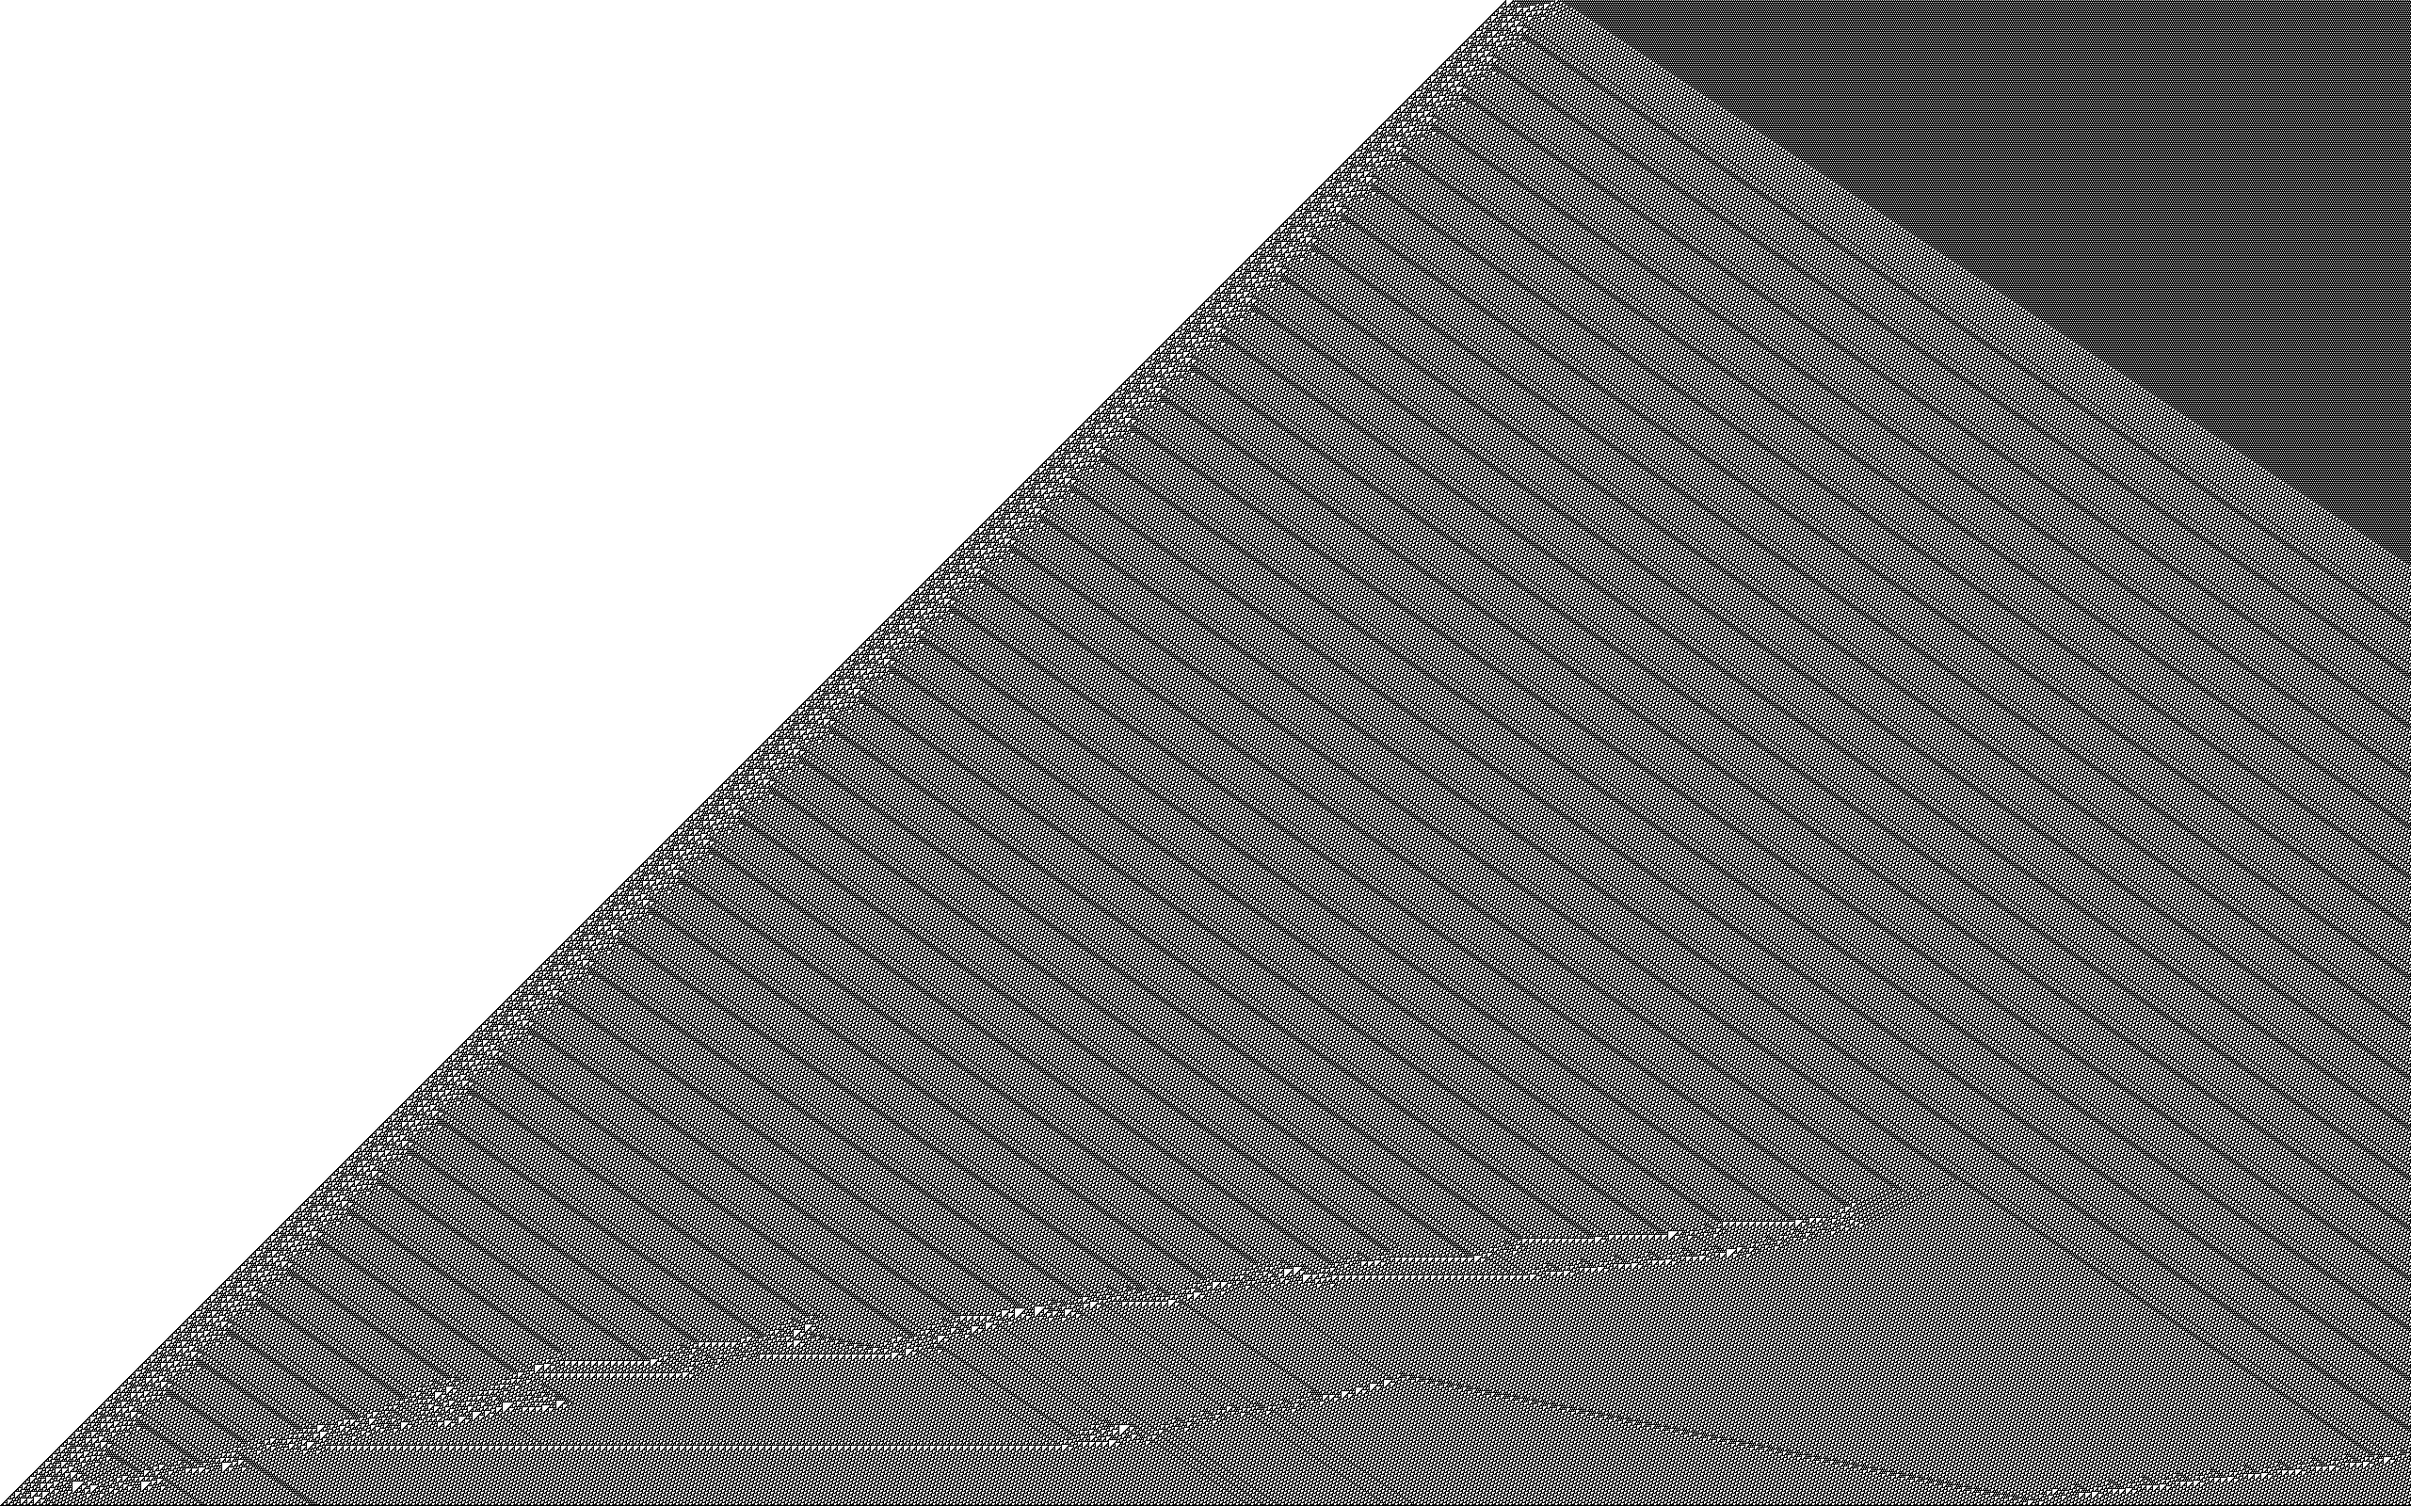
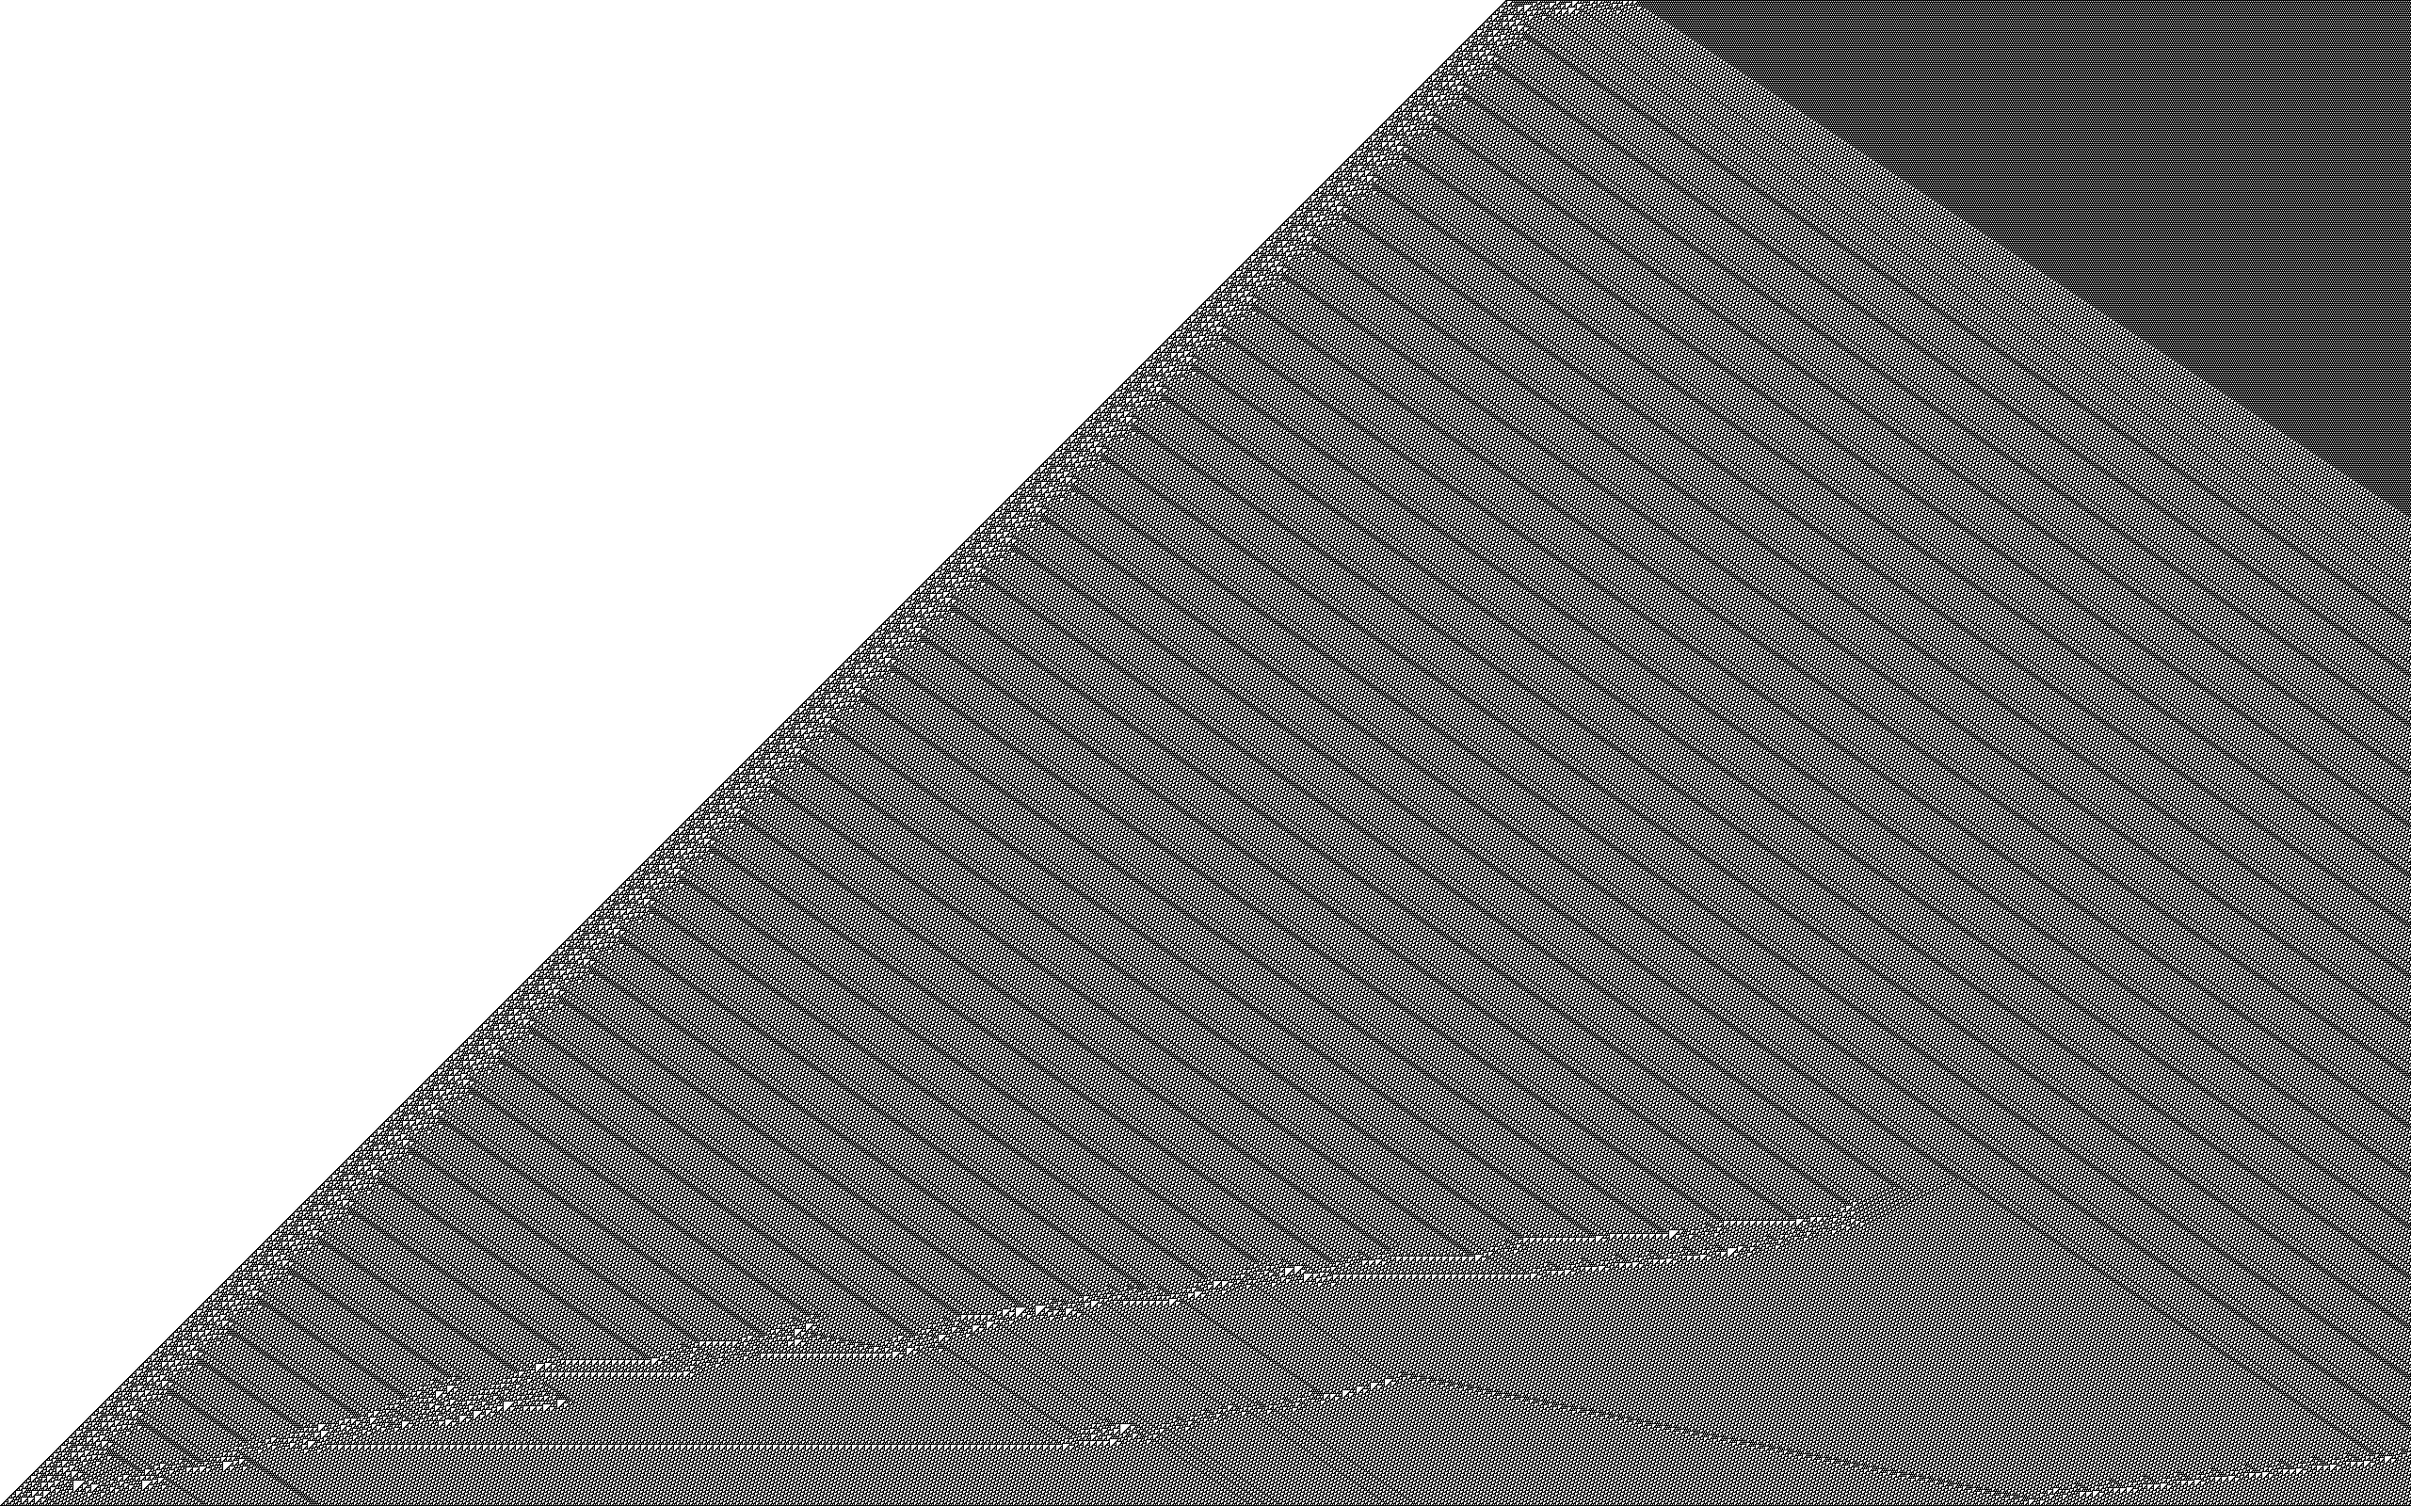
update: default automata generation add: README update: render new example pic

diff --git a/src/cellular_automata.rs b/src/cellular_automata.rs
@@ -1,0 +1,281 @@
+use crate::utils::{get_left_neighbour_index_wrapping, get_right_neighbour_index_wrapping};
+use bit_set::BitSet;
+use image::{ImageBuffer, Rgb, RgbImage};
+use std::fmt::{Display, Error, Formatter};
+
+pub enum RowStartPosition {
+    Left,
+    Right,
+    Center,
+}
+
+pub enum BorderHandling {
+    Alive,
+    Dead,
+    Wrapping,
+}
+
+pub struct Generation {
+    cells: Vec<bool>,
+}
+
+impl Display for Generation {
+    fn fmt(&self, f: &mut Formatter) -> Result<(), Error> {
+        let generation_as_string: String = self
+            .cells
+            .iter()
+            .map(|cell_state| if *cell_state { '■' } else { '□' })
+            .collect();
+        write!(f, "{}", generation_as_string)
+    }
+}
+
+impl Generation {
+    pub fn new(width: usize, start_position: RowStartPosition) -> Self {
+        assert!(
+            width > 0,
+            "You can't create 0 width rows, please create something of width 1 or larger."
+        );
+
+        let start_point = match start_position {
+            RowStartPosition::Left => 0,
+            RowStartPosition::Right => width - 1,
+            RowStartPosition::Center => width / 2,
+        };
+
+        Generation {
+            cells: (0..width)
+                .map(|index: usize| index == start_point)
+                .collect(),
+        }
+    }
+
+    pub fn get_cell_state(&self, cell_index: usize) -> Option<bool> {
+        if cell_index + 1 >= self.cells.len() {
+            return None;
+        }
+
+        Some(self.cells[cell_index])
+    }
+
+    pub fn get_next_generation(&self, rules: u8, border_handling: &BorderHandling) -> Self {
+        Generation {
+            cells: self
+                .cells
+                .iter()
+                .enumerate()
+                .map(|(index, _)| self.get_next_cell_state(index, rules, border_handling))
+                .collect(),
+        }
+    }
+
+    fn get_next_cell_state(
+        &self,
+        cell_index: usize,
+        rules: u8,
+        border_handling: &BorderHandling,
+    ) -> bool {
+        use BorderHandling::*;
+
+        let (left_neighbour, current_state, right_neighbour) = match border_handling {
+            Wrapping => self.get_cell_and_neighbours_wrapping(cell_index),
+            Alive => self.get_cell_and_neighbours(cell_index, true),
+            Dead => self.get_cell_and_neighbours(cell_index, false),
+        };
+
+        get_next_cell_state(left_neighbour, current_state, right_neighbour, rules)
+    }
+
+    fn get_cell_and_neighbours_wrapping(&self, cell_index: usize) -> (bool, bool, bool) {
+        let left_neighbour_index: usize =
+            get_left_neighbour_index_wrapping(cell_index, self.cells.len());
+        let right_neighbour_index: usize =
+            get_right_neighbour_index_wrapping(cell_index, self.cells.len());
+
+        (
+            self.cells[left_neighbour_index],
+            self.cells[cell_index],
+            self.cells[right_neighbour_index],
+        )
+    }
+
+    fn get_cell_and_neighbours(
+        &self,
+        cell_index: usize,
+        neighbour_default: bool,
+    ) -> (bool, bool, bool) {
+        let left_neighbour_index: isize = cell_index as isize - 1;
+        let left_neighbour;
+
+        if left_neighbour_index < 0 {
+            left_neighbour = neighbour_default;
+        } else {
+            left_neighbour = self.cells[left_neighbour_index as usize];
+        }
+
+        let right_neighbour_index: usize = cell_index + 1;
+        let right_neighbour;
+
+        if right_neighbour_index >= self.cells.len() {
+            right_neighbour = neighbour_default;
+        } else {
+            right_neighbour = self.cells[right_neighbour_index as usize];
+        }
+
+        (left_neighbour, self.cells[cell_index], right_neighbour)
+    }
+}
+
+pub struct ElementaryCellularAutomata {
+    generations: Vec<Generation>,
+    width: usize,
+    rule: u8,
+    border_handling: BorderHandling,
+}
+
+impl Display for ElementaryCellularAutomata {
+    fn fmt(&self, f: &mut Formatter) -> Result<(), Error> {
+        let generations: Vec<String> = self
+            .generations
+            .iter()
+            .map(|generation| generation.to_string())
+            .collect();
+
+        let generations_as_string = generations.join("\n");
+        write!(f, "{}", generations_as_string)
+    }
+}
+
+impl Default for ElementaryCellularAutomata {
+    fn default() -> Self {
+        ElementaryCellularAutomata {
+            generations: vec![Generation::new(100, RowStartPosition::Center)],
+            width: 100,
+            rule: 110,
+            border_handling: BorderHandling::Dead,
+        }
+    }
+}
+
+impl ElementaryCellularAutomata {
+    pub fn new(
+        rule: u8,
+        width: usize,
+        start_position: RowStartPosition,
+        border_handling: BorderHandling,
+    ) -> Self {
+        assert!(width > 0, "Width must be greater than zero");
+
+        ElementaryCellularAutomata {
+            generations: vec![Generation::new(width, start_position)],
+            width,
+            rule,
+            border_handling,
+        }
+    }
+
+    pub fn update(&mut self) {
+        let next_generation = self
+            .get_next_generation()
+            .expect("Failed to generate the next generation.");
+
+        self.generations.push(next_generation);
+    }
+
+    pub fn as_image_buffer(&self) -> RgbImage {
+        ImageBuffer::from_fn(
+            self.width as u32,
+            self.generations.len() as u32,
+            |x, y| match self.generations[y as usize].get_cell_state(x as usize) {
+                Some(false) => Rgb([255u8, 255u8, 255u8]),
+                _ => Rgb([0u8, 0u8, 0u8]),
+            },
+        )
+    }
+
+    fn get_next_generation(&self) -> Option<Generation> {
+        if let Some(current_generation) = self.generations.last() {
+            return Some(current_generation.get_next_generation(self.rule, &self.border_handling));
+        }
+
+        None
+    }
+}
+
+fn get_next_cell_state(
+    left_neighbour: bool,
+    current_state: bool,
+    right_neighbour: bool,
+    rules: u8,
+) -> bool {
+    let rules_bitset = BitSet::from_bytes(&[rules]);
+
+    match (left_neighbour, current_state, right_neighbour) {
+        (true, true, true) => rules_bitset.contains(0),
+        (true, true, false) => rules_bitset.contains(1),
+        (true, false, true) => rules_bitset.contains(2),
+        (true, false, false) => rules_bitset.contains(3),
+        (false, true, true) => rules_bitset.contains(4),
+        (false, true, false) => rules_bitset.contains(5),
+        (false, false, true) => rules_bitset.contains(6),
+        (false, false, false) => rules_bitset.contains(7),
+    }
+}
+
+#[cfg(test)]
+mod tests {
+    use super::*;
+
+    fn get_next_cell_state_rule_30(
+        left_neighbour: bool,
+        current_state: bool,
+        right_neighbour: bool,
+    ) -> bool {
+        match (left_neighbour, current_state, right_neighbour) {
+            (true, true, true) => false,
+            (true, true, false) => false,
+            (true, false, true) => false,
+            (true, false, false) => true,
+            (false, true, true) => true,
+            (false, true, false) => true,
+            (false, false, true) => true,
+            (false, false, false) => false,
+        }
+    }
+
+    #[test]
+    fn test_get_next_cell_state() {
+        assert_eq!(
+            get_next_cell_state(true, true, true, 30),
+            get_next_cell_state_rule_30(true, true, true)
+        );
+        assert_eq!(
+            get_next_cell_state(true, true, false, 30),
+            get_next_cell_state_rule_30(true, true, false)
+        );
+        assert_eq!(
+            get_next_cell_state(true, false, true, 30),
+            get_next_cell_state_rule_30(true, false, true)
+        );
+        assert_eq!(
+            get_next_cell_state(true, false, false, 30),
+            get_next_cell_state_rule_30(true, false, false)
+        );
+        assert_eq!(
+            get_next_cell_state(false, true, true, 30),
+            get_next_cell_state_rule_30(false, true, true)
+        );
+        assert_eq!(
+            get_next_cell_state(true, true, false, 30),
+            get_next_cell_state_rule_30(true, true, false)
+        );
+        assert_eq!(
+            get_next_cell_state(false, false, true, 30),
+            get_next_cell_state_rule_30(false, false, true)
+        );
+        assert_eq!(
+            get_next_cell_state(false, false, false, 30),
+            get_next_cell_state_rule_30(false, false, false)
+        );
+    }
+}

diff --git a/src/utils.rs b/src/utils.rs
@@ -1,0 +1,75 @@
+//use std::ops::Mul;
+//use std::ops::Add;
+
+pub fn map_t_of_range_a_to_range_b(
+    t: f32,
+    range_a_start: f32,
+    range_a_end: f32,
+    range_b_start: f32,
+    range_b_end: f32,
+) -> f32 {
+    let slope = (range_b_end - range_b_start) / (range_a_end - range_a_start);
+    range_b_start + slope * (t - range_a_start)
+}
+
+pub trait Interpolate {
+    fn interpolate(&self, other: &Self, t: f32) -> Self;
+}
+
+// This can be used once specialization is stable
+//impl<T: Mul<f32, Output = T> + Add<Output = T> + Copy> Interpolate for T {
+//    fn interpolate(&self, other: &Self, t: f32) -> Self {
+//        *self * (1.0 - t) + *other * t
+//    }
+//}
+
+impl Interpolate for u8 {
+    fn interpolate(&self, other: &Self, t: f32) -> u8 {
+        (f32::from(*self) * (1.0 - t) + f32::from(*other) * t) as u8
+    }
+}
+
+pub fn get_right_neighbour_index_wrapping(current_index: usize, collection_size: usize) -> usize {
+    get_index_wrapping(
+        current_index as isize + 1 as isize,
+        collection_size as isize,
+    ) as usize
+}
+
+pub fn get_left_neighbour_index_wrapping(current_index: usize, collection_size: usize) -> usize {
+    get_index_wrapping(current_index as isize - 1, collection_size as isize) as usize
+}
+
+pub fn get_index_wrapping(index: isize, upper_bound: isize) -> isize {
+    if index >= 0 {
+        index % upper_bound
+    } else {
+        (index % upper_bound + upper_bound) % upper_bound
+    }
+}
+
+#[cfg(test)]
+mod tests {
+    use super::*;
+
+    #[test]
+    fn test_get_index_wrapping() {
+        assert_eq!(0, get_index_wrapping(0, 10));
+        assert_eq!(0, get_index_wrapping(10, 10));
+        assert_eq!(5, get_index_wrapping(5, 10));
+        assert_eq!(9, get_index_wrapping(19, 10));
+        assert_eq!(0, get_index_wrapping(-10, 10));
+    }
+
+    #[test]
+    fn test_get_right_neighbour_index_wrapping() {
+        assert_eq!(1, get_right_neighbour_index_wrapping(0, 4));
+        assert_eq!(0, get_right_neighbour_index_wrapping(3, 4));
+    }
+
+    #[test]
+    fn test_get_left_neighbour_index_wrapping() {
+        assert_eq!(2, get_left_neighbour_index_wrapping(3, 4));
+        assert_eq!(3, get_left_neighbour_index_wrapping(0, 4));
+    }
+}

diff --git a/README.md b/README.md
@@ -1,0 +1,10 @@
+# Cellular Automata
+
+This is a companion project that I'm working on as I read through Stephen Wolfram's "A New Kind of Science".
+
+It contains Rust implementations of various cellular automata described in the book.
+
+By default, the images are rotated left and displayed horizontally.
+
+As an example, here is elementary cellular automata generated by rule 110:
+![Rule 110 Elementary Cellular Automata](ca.png "Rule 110 Elementary Cellular Automata")
